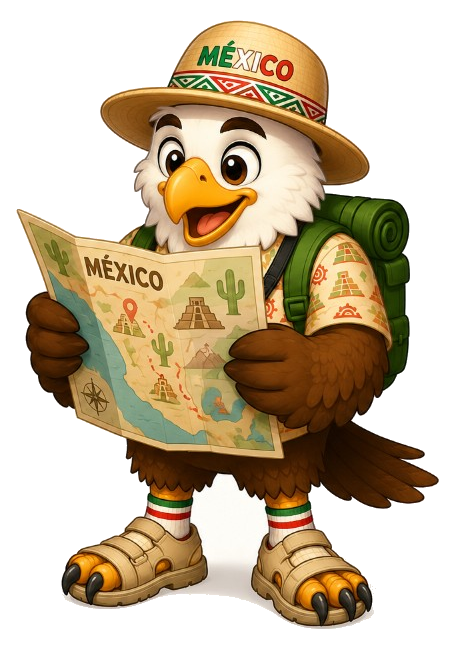
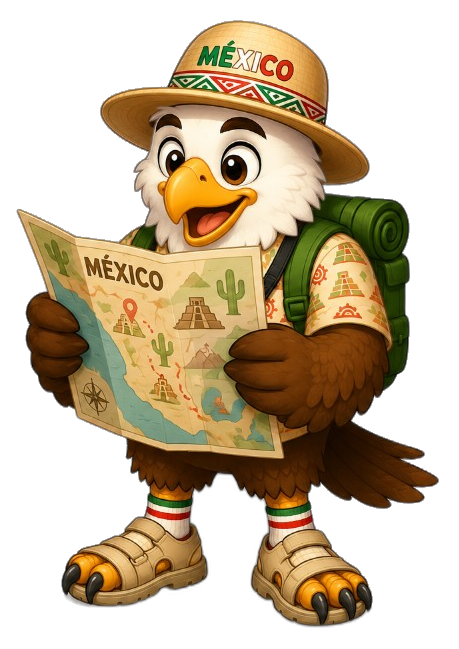
feat: add images and fix placeholder spacing

diff --git a/app/page.tsx b/app/page.tsx
@@ -97,28 +97,31 @@ function Hero() {
     <section
       className="relative overflow-hidden"
       style={{
-        background: "linear-gradient(150deg, #0369a1 0%, #0284c7 55%, #0ea5e9 100%)",
-        color: "white",
+        backgroundImage: "url('/images/ui/hero-sky-bg.jpg')",
+        backgroundSize: "cover",
+        backgroundPosition: "center top",
+        color: "var(--color-ink)",
       }}
     >
+      {/* overlay muy sutil para mejorar contraste del texto */}
       <div
-        className="orb animate-blob"
-        style={{ width: 480, height: 480, top: -120, right: -100, background: "rgba(234,179,8,0.22)" }}
-      />
-      <div
-        className="orb animate-blob delay-400"
-        style={{ width: 320, height: 320, bottom: -80, left: -60, background: "rgba(255,255,255,0.07)" }}
+        className="absolute inset-0"
+        style={{ background: "rgba(255,255,255,0.18)" }}
+        aria-hidden
       />
 
-      <div className="relative mx-auto flex max-w-6xl flex-col items-center gap-10 px-5 py-16 sm:flex-row sm:gap-12 sm:py-24">
+      <div className="relative mx-auto flex max-w-6xl flex-col items-center gap-10 px-5 pt-16 pb-20 sm:flex-row sm:gap-12 sm:pt-24 sm:pb-28">
         <div className="flex flex-col gap-5 text-center sm:text-left sm:w-[35%] sm:flex-shrink-0">
-          <h1 className="text-4xl font-extrabold leading-tight sm:text-5xl animate-fade-up delay-100">
+          <h1
+            className="text-4xl font-extrabold leading-tight sm:text-5xl animate-fade-up delay-100"
+            style={{ color: "var(--color-primary-dark)" }}
+          >
             Excursiones seguras para adultos mayores
           </h1>
 
           <p
             className="mx-auto max-w-md text-xl leading-relaxed sm:mx-0 animate-fade-up delay-200"
-            style={{ color: "rgba(255,255,255,0.97)" }}
+            style={{ color: "var(--color-ink)" }}
           >
             Inscríbete, comparte tu perfil de salud y viaja con respaldo. Todo en un solo lugar.
           </p>
@@ -127,18 +130,24 @@ function Hero() {
             <Link href="/excursiones" className="btn-accent btn-glow text-lg">
               Ver próximas excursiones
             </Link>
-            <Link href="/coordinador/nueva-excursion" className="btn-ghost-light text-lg">
+            <Link href="/coordinador/nueva-excursion" className="btn-secondary text-lg">
               Soy coordinador COPACO
             </Link>
           </div>
         </div>
 
-        <div className="w-full flex-1 animate-float">
+        <div className="w-full flex-1 animate-float relative">
           <ExcursionImg
             src="/images/ui/hero.jpg"
             alt="Grupo de adultos mayores abordando un autobús en una excursión comunitaria"
             aspect="aspect-[4/3]"
             className="w-full shadow-2xl"
+          />
+          <img
+            src="/images/ui/aguila-bienvenida.png"
+            alt="Águila Viajera dando la bienvenida"
+            className="pointer-events-none select-none absolute -bottom-10 -right-8 w-36 sm:w-44"
+            style={{ zIndex: 10, filter: "drop-shadow(0 8px 32px rgba(0,0,0,0.55))" }}
           />
         </div>
       </div>
@@ -262,37 +271,46 @@ function DestinosCards({
   return (
     <section className="px-5 py-16" style={{ background: "var(--color-bg-alt)" }}>
       <div className="mx-auto max-w-5xl">
-        <div className="flex flex-wrap items-end justify-between gap-3 mb-8">
-          <h2 className="reveal text-3xl font-extrabold">Destinos COPACO</h2>
-          <Link href="/excursiones" className="reveal font-bold underline" style={{ color: "var(--color-primary)" }}>
+        <div className="reveal flex flex-wrap items-end justify-between gap-3 mb-8">
+          <h2 className="text-3xl font-extrabold">Destinos COPACO</h2>
+          <Link href="/excursiones" className="font-bold underline" style={{ color: "var(--color-primary)" }}>
             Ver todas
           </Link>
         </div>
 
         <div className="grid gap-6 sm:grid-cols-3">
           {excursiones.map((ex, i) => (
-            <Link
-              key={ex.id}
-              href={`/excursiones/${ex.id}`}
-              className="reveal card card-interactive flex flex-col gap-0 overflow-hidden !p-0"
-              style={{ transitionDelay: `${i * 80}ms` }}
-            >
-              <ExcursionImg
-                src={`/images/excursiones/${ex.id}.jpg`}
-                alt={ex.destino}
-                aspect="aspect-[3/2]"
-                className="rounded-none rounded-t-xl"
-              />
-              <div className="flex flex-col gap-1.5 p-4">
-                <h3 className="text-lg font-extrabold leading-snug">{ex.destino}</h3>
-                <p
-                  className="text-sm line-clamp-2"
-                  style={{ color: "var(--color-ink-soft)" }}
-                >
-                  {ex.descripcionLarga}
-                </p>
-              </div>
-            </Link>
+            <div key={ex.id} className={`relative${i === 0 ? "" : ""}`}>
+              {i === 0 && (
+                <img
+                  src="/images/ui/aguila-bienvenida.png"
+                  alt="Águila Viajera explorando destinos"
+                  className="pointer-events-none select-none absolute -bottom-8 -left-6 w-32 sm:w-40"
+                  style={{ zIndex: 10, filter: "drop-shadow(0 6px 20px rgba(0,0,0,0.45))" }}
+                />
+              )}
+              <Link
+                href={`/excursiones/${ex.id}`}
+                className="reveal card card-interactive flex flex-col gap-0 overflow-hidden !p-0 h-full"
+                style={{ transitionDelay: `${i * 80}ms` }}
+              >
+                <ExcursionImg
+                  src={`/images/excursiones/${ex.id}.jpg`}
+                  alt={ex.destino}
+                  aspect="aspect-[3/2]"
+                  className="rounded-none rounded-t-xl"
+                />
+                <div className="flex flex-col gap-1.5 p-4">
+                  <h3 className="text-lg font-extrabold leading-snug">{ex.destino}</h3>
+                  <p
+                    className="text-sm line-clamp-2"
+                    style={{ color: "var(--color-ink-soft)" }}
+                  >
+                    {ex.descripcionLarga}
+                  </p>
+                </div>
+              </Link>
+            </div>
           ))}
           {excursiones.length === 0 && (
             <p style={{ color: "var(--color-ink-soft)" }}>Aún no hay destinos publicados.</p>

diff --git a/app/(app)/perfil-salud/page.tsx b/app/(app)/perfil-salud/page.tsx
@@ -106,12 +106,7 @@ export default function PerfilSaludPage() {
     <form onSubmit={handleGuardar} className="flex flex-col gap-5 pb-32">
       {/* Cabecera */}
       <div className="flex items-center gap-4">
-        <PlaceholderImage
-          label="Foto"
-          aspect="aspect-square"
-          shape="circle"
-          className="w-16 flex-shrink-0"
-        />
+        <PlaceholderImage label="Foto" shape="circle" size={64} />
         <div className="min-w-0">
           <h1 className="text-2xl font-extrabold">Perfil de salud</h1>
           <p className="mt-0.5 font-semibold truncate" style={{ color: "var(--color-primary)" }}>